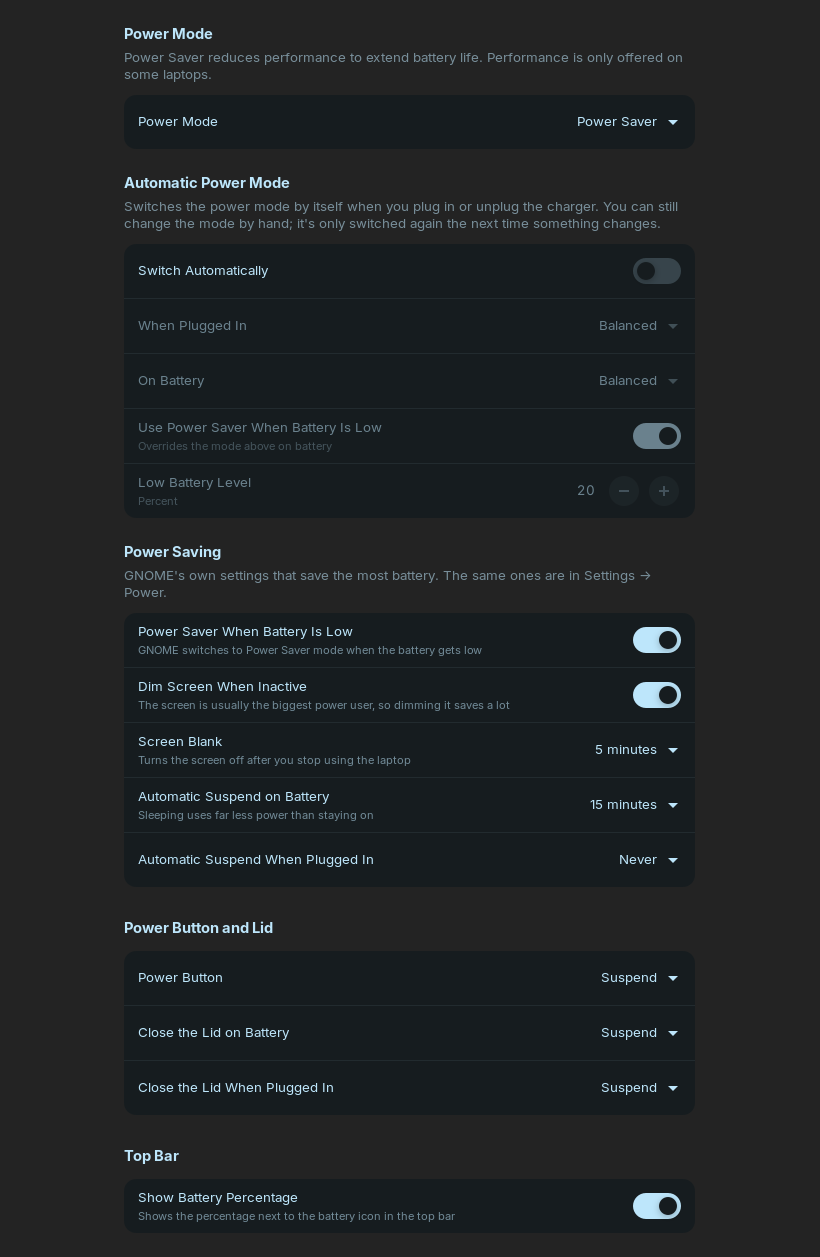
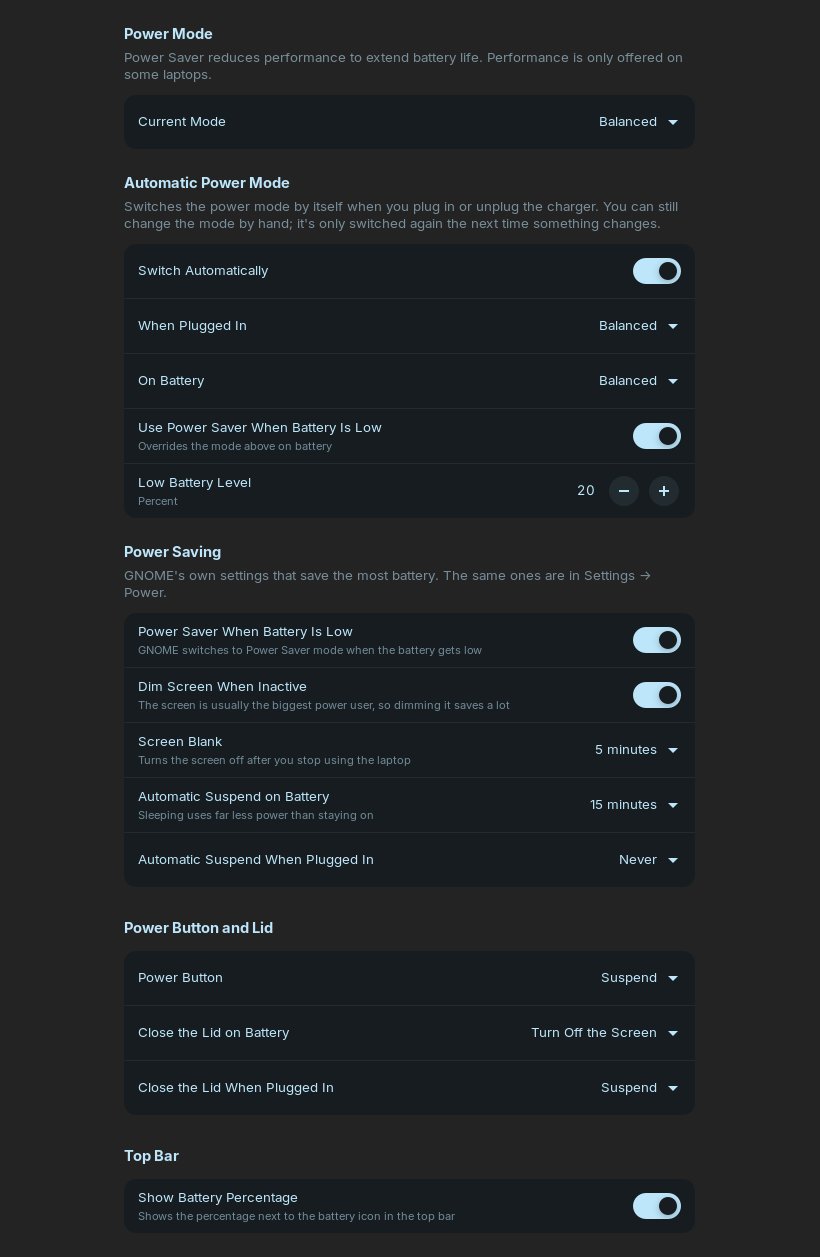
Clearer labels: Current Mode, Notify At, Charging Behavior (#17)
Stop reusing 'Power Mode' and 'Mode' for different things: the Power page row
is now Current Mode, the low-battery notification level is Notify At, and the
Charging page's Charging Mode group is Charging Behavior with a While Plugged
In row. Spanish and German updated; Power screenshot retaken.

diff --git a/src/ui/charging.rs b/src/ui/charging.rs
@@ -223,11 +223,11 @@ impl ChargingPage {
         root.add(&full_group);
 
         let mode_group = adw::PreferencesGroup::builder()
-            .title(tr("Charging Mode"))
+            .title(tr("Charging Behavior"))
             .description(tr("Temporarily pause charging, or run from the battery while still plugged in."))
             .visible(false)
             .build();
-        let mode = adw::ComboRow::builder().title(tr("Mode")).build();
+        let mode = adw::ComboRow::builder().title(tr("While Plugged In")).build();
         mode_group.add(&mode);
         root.add(&mode_group);
 
@@ -370,7 +370,7 @@ impl ChargingPage {
             }
             let id = this.mode_ids.borrow().get(row.selected() as usize).cloned();
             if let Some(id) = id {
-                this.run_helper(vec![vec!["set-behaviour".into(), this.battery_name(), id.clone()]], trf("Charging mode set to {0}", &[("0", behaviour_label(&id).to_string())]));
+                this.run_helper(vec![vec!["set-behaviour".into(), this.battery_name(), id.clone()]], trf("Charging behavior set to {0}", &[("0", behaviour_label(&id).to_string())]));
             }
         });
     }

diff --git a/src/ui/preferences.rs b/src/ui/preferences.rs
@@ -49,7 +49,7 @@ pub fn show(parent: &impl IsA<gtk::Widget>, ctrl: &Rc<Controller>) {
     let low = switch(ctrl, tr("Low Battery"), tr("When the battery drops to the level below"), |s| s.notify_low, |s, v| s.notify_low = v);
     group.add(&low);
     let level = adw::SpinRow::builder()
-        .title(tr("Low Battery Level"))
+        .title(tr("Notify At"))
         .subtitle(tr("Percent"))
         .adjustment(&gtk::Adjustment::new(ctrl.state().settings.low_level as f64, 5.0, 50.0, 1.0, 5.0, 0.0))
         .build();

diff --git a/src/ui/power.rs b/src/ui/power.rs
@@ -166,7 +166,7 @@ impl PowerPage {
             .description(tr("Power Saver reduces performance to extend battery life. Performance is only offered on some laptops."))
             .visible(false)
             .build();
-        let mode = profile_combo(tr("Power Mode"));
+        let mode = profile_combo(tr("Current Mode"));
         mode_group.add(&mode);
         root.add(&mode_group);
 

diff --git a/README.md b/README.md
@@ -112,7 +112,7 @@ sudo snap connect battery-health-center:power-control
 
 The snap is strictly confined. A bundled root service (`bhc-helper serve`) applies charge limits
 through the `power-control` interface, which only allows the `charge_start_threshold` /
-`charge_stop_threshold` files. Charging Mode and Power Mode are hidden in the snap because no
+`charge_stop_threshold` files. Charging Behavior and Power Mode are hidden in the snap because no
 interface allows them. Calibration and Charge to 100% Now work in the snap. On the Power page, only
 **Show Battery Percentage** works in the snap: the sandbox blocks the power mode service and can't see
 GNOME's power settings, so the page says so and the rest is available in the regular (non-snap) version. To build it locally, run
